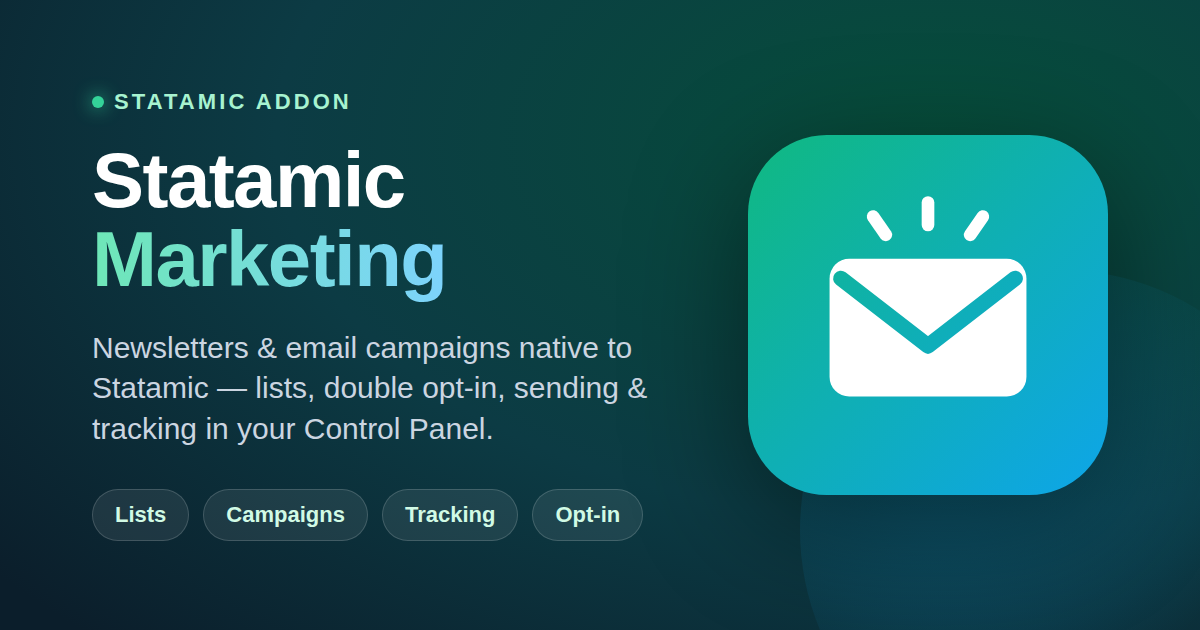
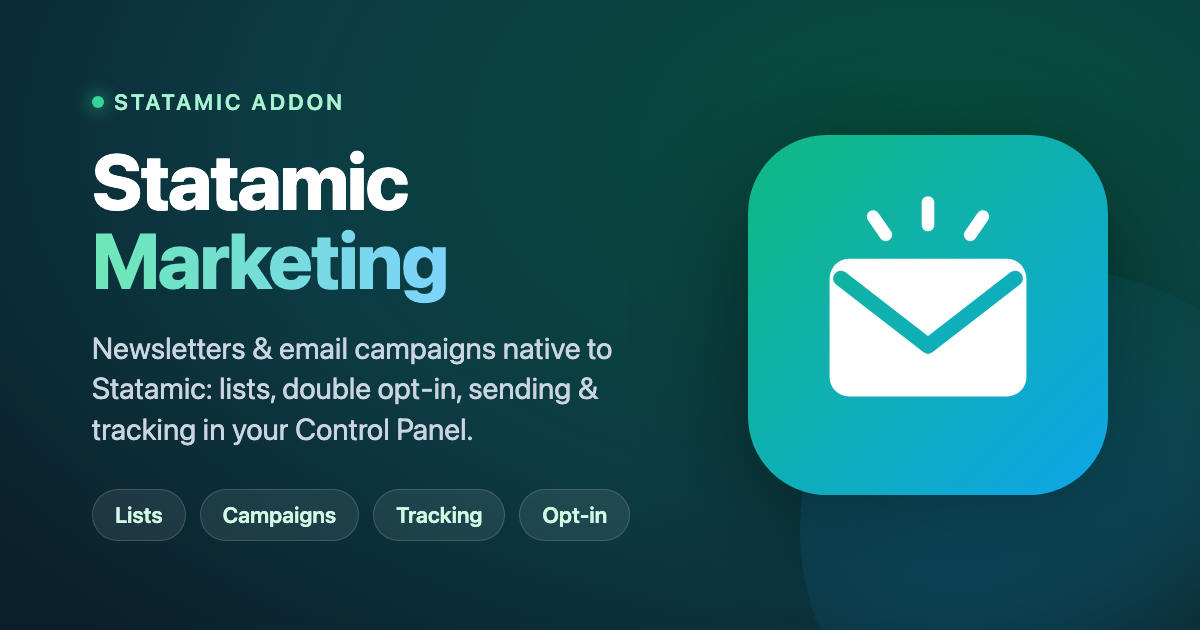
chore(art): Gedankenstrich aus Cover-Untertitel entfernen
Adrians Copy-Regel erlaubt in Marketingtexten keine Gedankenstriche.
Der Halbgeviertstrich im Untertitel ist durch einen Doppelpunkt aufgeloest,
nicht durch einen Bindestrich ersetzt.

Cover-PNG aus cover.html neu gerendert, Masse unveraendert bei 1200x630.

diff --git a/art/cover.html b/art/cover.html
@@ -35,7 +35,7 @@
     <div class="copy">
       <span class="eyebrow"><span class="dot"></span>Statamic Addon</span>
       <h1>Statamic<br><span class="accent">Marketing</span></h1>
-      <p class="sub">Newsletters &amp; email campaigns native to Statamic — lists, double opt-in, sending &amp; tracking in your Control Panel.</p>
+      <p class="sub">Newsletters &amp; email campaigns native to Statamic: lists, double opt-in, sending &amp; tracking in your Control Panel.</p>
       <div class="badges">
         <span class="badge">Lists</span>
         <span class="badge">Campaigns</span>
